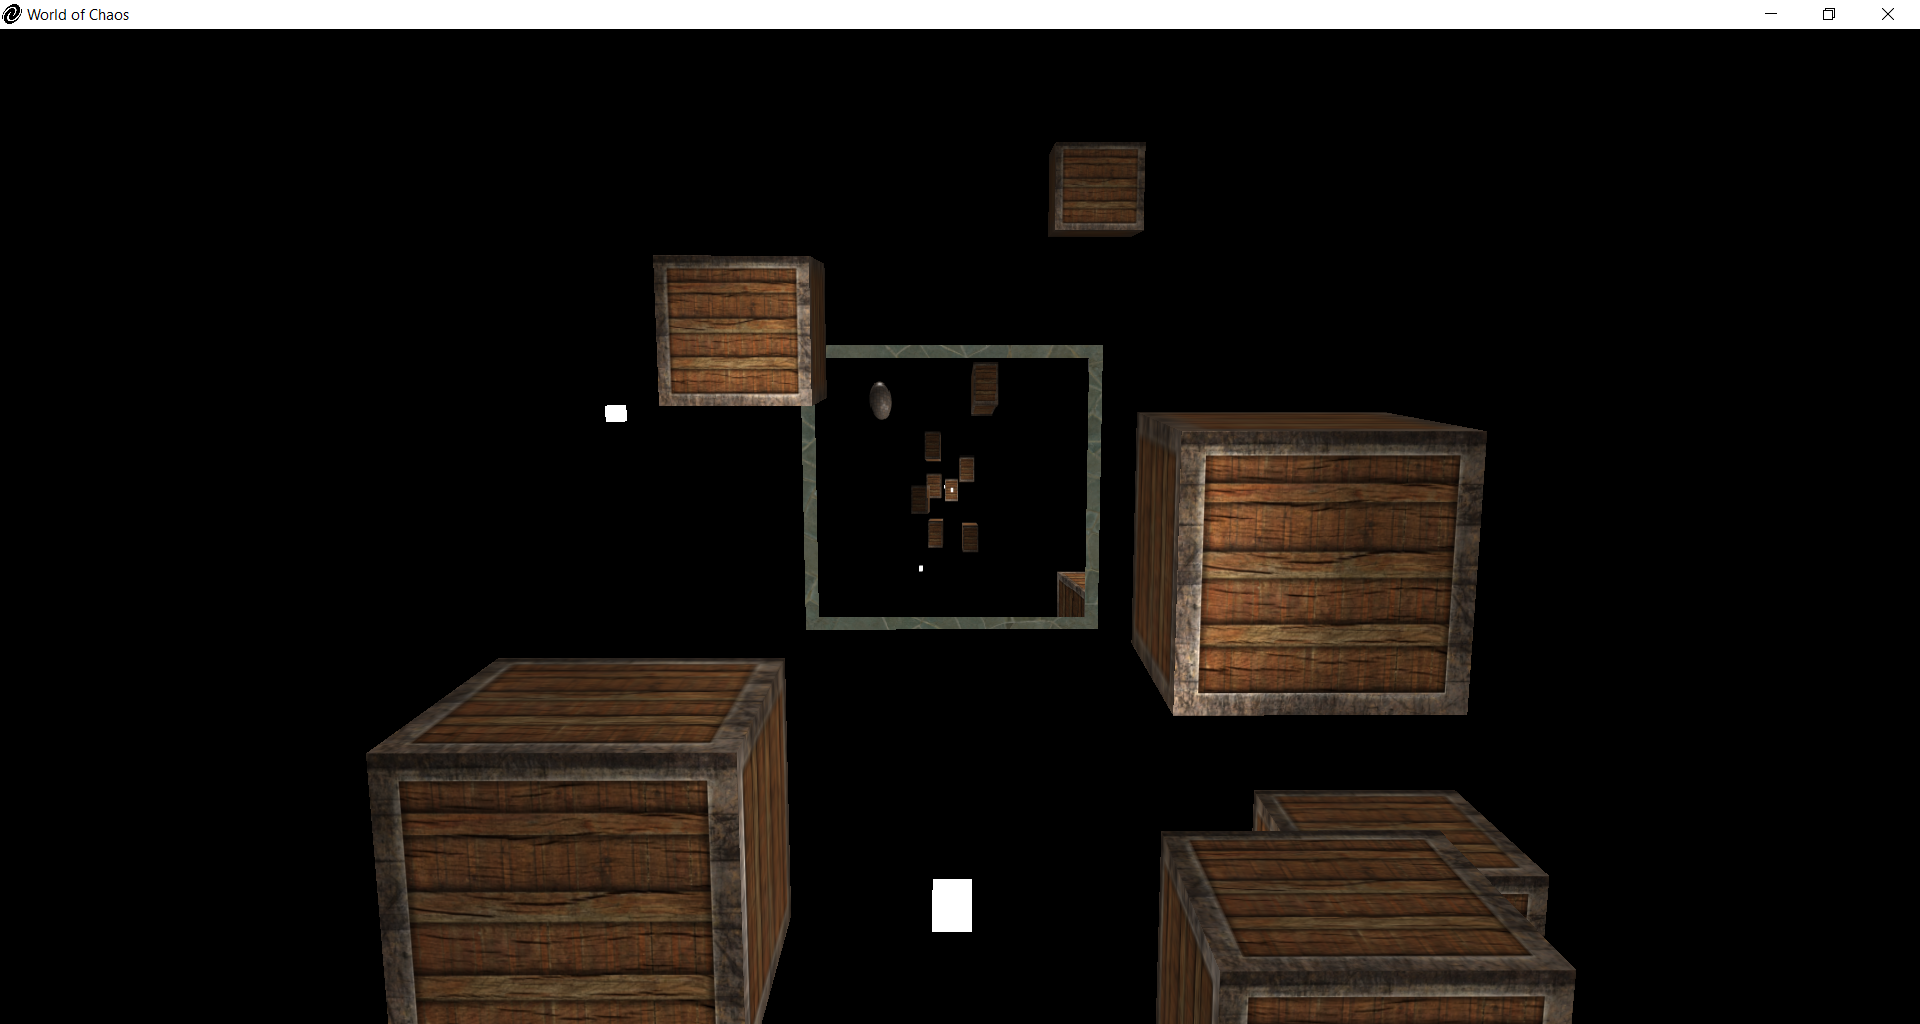
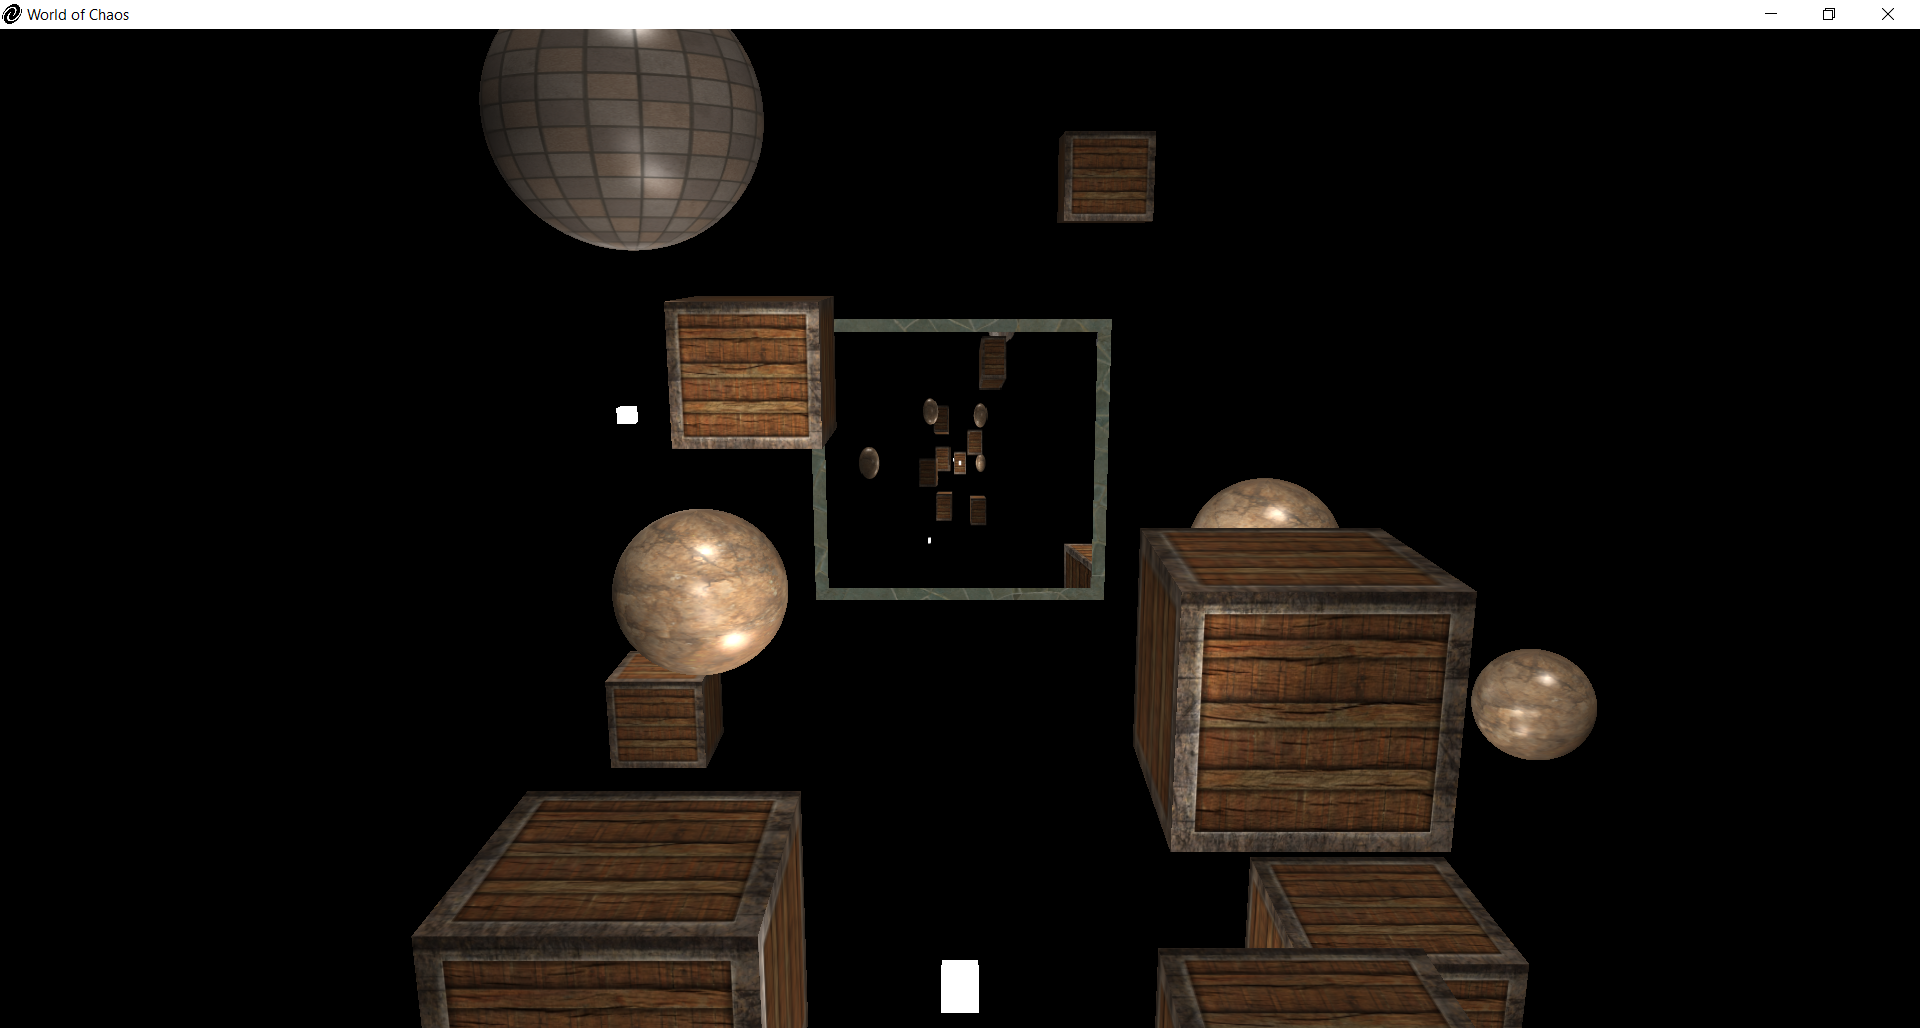
change images and update readme

diff --git a/README.md b/README.md
@@ -41,6 +41,14 @@ The project was implemented as a part of the Computer Graphics course at Warsaw 
   - A rectangular mirror placed in the scene reflects nearby objects.
   - Utilizes render-to-texture techniques for realistic reflections.
 
+<p align="center">
+  <img src="Images/03.PNG"/>
+</p>
+
+<p align="center">
+  <img src="Images/04.PNG"/>
+</p>
+
 ## Technologies Used
 
 - [OpenTk](https://github.com/opentk/opentk): A powerful library for OpenGL-based rendering in .NET.
@@ -63,6 +71,10 @@ The project was implemented as a part of the Computer Graphics course at Warsaw 
   - `F`: Enable/disable fog.
   - `B`: Change lighting model (Phong/Blinn).
 - Closing Window: `Esc`.
+
+<p align="center">
+  <img src="Images/05.PNG"/>
+</p>
 
 ## Code Attribution
 
